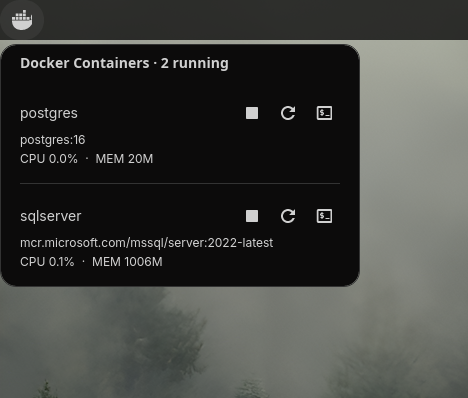
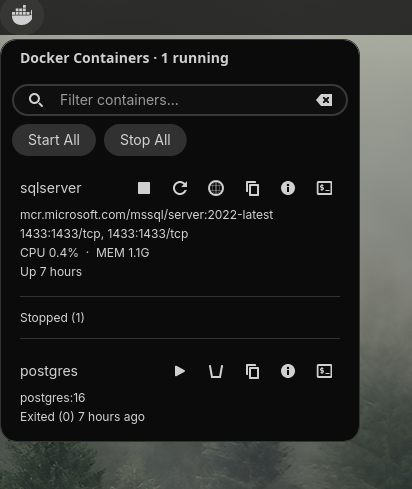
docs: Update README with new features and replace demo screenshot

diff --git a/README.md b/README.md
@@ -10,14 +10,23 @@ A panel applet for the [COSMIC desktop](https://github.com/pop-os/cosmic-epoch) 
 
 - **Panel indicator** with running container count
 - **Live stats** — CPU and memory usage per container, updated every 3 seconds
-- **Quick actions** — start, stop, restart containers with one click
-- **Log viewer** — tail the last 100 lines of any container's logs
-- **Grouped layout** — running containers on top, stopped containers below
+- **Quick actions** — start, stop, restart, delete containers with one click
+- **Streaming logs** — real-time log streaming with follow mode
+- **Port mappings** — see published ports at a glance and open them in your browser
+- **Docker Compose grouping** — containers are grouped by Compose project with collapsible sections and per-group start/stop
+- **Bulk actions** — start all / stop all containers, or per Compose group
+- **Search & filter** — quickly find containers by name or image
+- **Health indicators** — green/yellow/red icons for containers with a HEALTHCHECK
+- **Container details** — inspect ports, volumes, networks, and environment variables
+- **Desktop notifications** — get notified when a container stops unexpectedly or becomes unhealthy
+- **Copy container ID** — copy the short container ID to the clipboard
+- **Uptime display** — see how long each container has been running
 
 ## Requirements
 
 - COSMIC desktop environment
 - Docker daemon running and accessible to the current user (i.e. user in the `docker` group, or rootless Docker)
+- `wl-copy` (from `wl-clipboard`) for the Copy ID feature
 - Rust toolchain and [just](https://github.com/casey/just) (to build from source)
 
 ## Install
@@ -39,18 +48,15 @@ sudo just uninstall
 
 ## Usage
 
-Click the applet icon in the panel to open the popup. Running containers show live CPU/memory stats and action buttons (stop, restart, logs). Stopped containers show their exit status and can be started or inspected.
+Click the applet icon in the panel to open the popup. Running containers show live CPU/memory stats, health status, port mappings, and uptime. Action buttons let you stop, restart, open in browser, copy the container ID, view details, or stream logs. Stopped containers can be started, deleted, or inspected.
 
-<!-- TODO: Add screenshots of the popup in different states
-### Running containers
-![Running](./screenshots/running.png)
+Docker Compose projects are automatically grouped with collapsible headers and per-group start/stop controls. Use the search bar to filter containers by name or image, and bulk action buttons to start or stop everything at once.
 
-### Stopped containers
-![Stopped](./screenshots/stopped.png)
+The applet sends desktop notifications when a container stops unexpectedly or reports an unhealthy status, even when the popup is closed.
 
-### Log viewer
-![Logs](./screenshots/logs.png)
--->
+![Container details](./screenshots/container-details.png)
+![Container logs](./screenshots/container-logs.png)
+
 
 ## License
 
